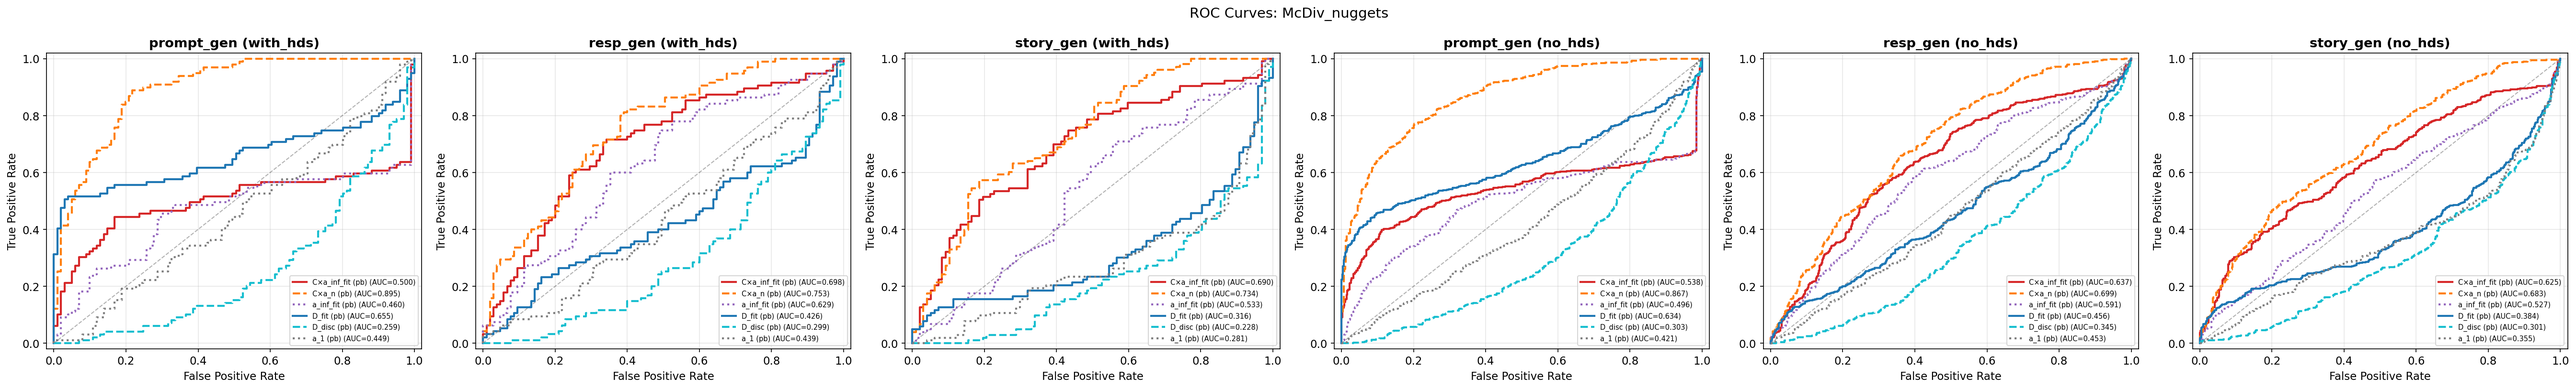
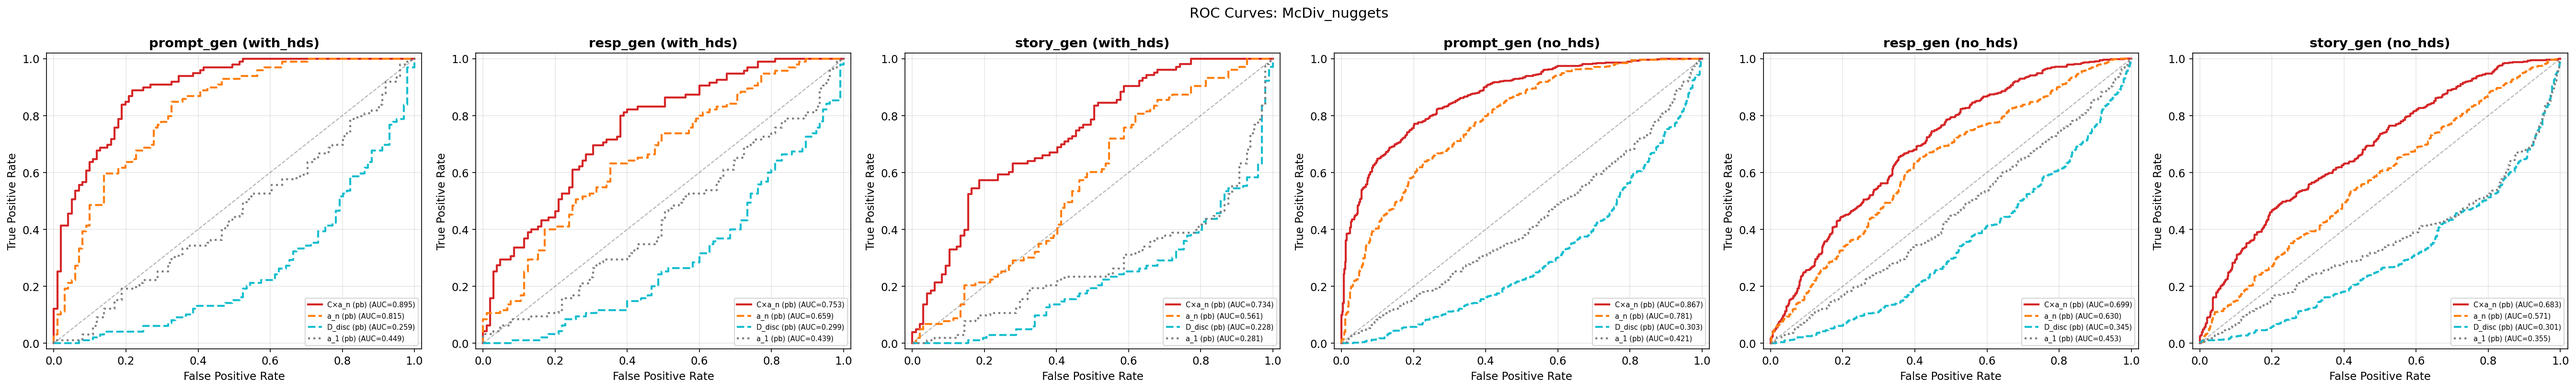
Fix distribution and ROC plots to include C×a_n and a_n
The hardcoded metric lists in plot_distributions() and
plot_roc_curves() predated the discovery that C×a_n is the
primary metric. Updated both to show C×a_n, a_n, D_fit, D_disc
(dropping fit-based metrics that are NaN with --skip-fit).

diff --git a/scripts/analyze_c_ainf.py b/scripts/analyze_c_ainf.py
@@ -390,9 +390,8 @@ def plot_roc_curves(
 
     # Metrics to overlay on ROC
     roc_metrics = [
-        ("C×a_inf_fit (pb)", "C_a_inf_fit_pb", "tab:red", "-"),
-        ("C×a_n (pb)", "C_a_n_pb", "tab:orange", "--"),
-        ("a_inf_fit (pb)", "a_inf_fit_pb", "tab:purple", ":"),
+        ("C×a_n (pb)", "C_a_n_pb", "tab:red", "-"),
+        ("a_n (pb)", "a_n_pb", "tab:orange", "--"),
         ("D_fit (pb)", "D_fit_pb", "tab:blue", "-"),
         ("D_disc (pb)", "D_disc_pb", "tab:cyan", "--"),
         ("a_1 (pb)", "a_1_pb", "tab:gray", ":"),
@@ -447,9 +446,9 @@ def plot_distributions(
         return
 
     metrics_to_plot = [
-        ("C×a_inf_fit (pb)", "C_a_inf_fit_pb"),
+        ("C×a_n (pb)", "C_a_n_pb"),
+        ("a_n (pb)", "a_n_pb"),
         ("D_fit (pb)", "D_fit_pb"),
-        ("a_inf_fit (pb)", "a_inf_fit_pb"),
         ("D_disc (pb)", "D_disc_pb"),
     ]
 
